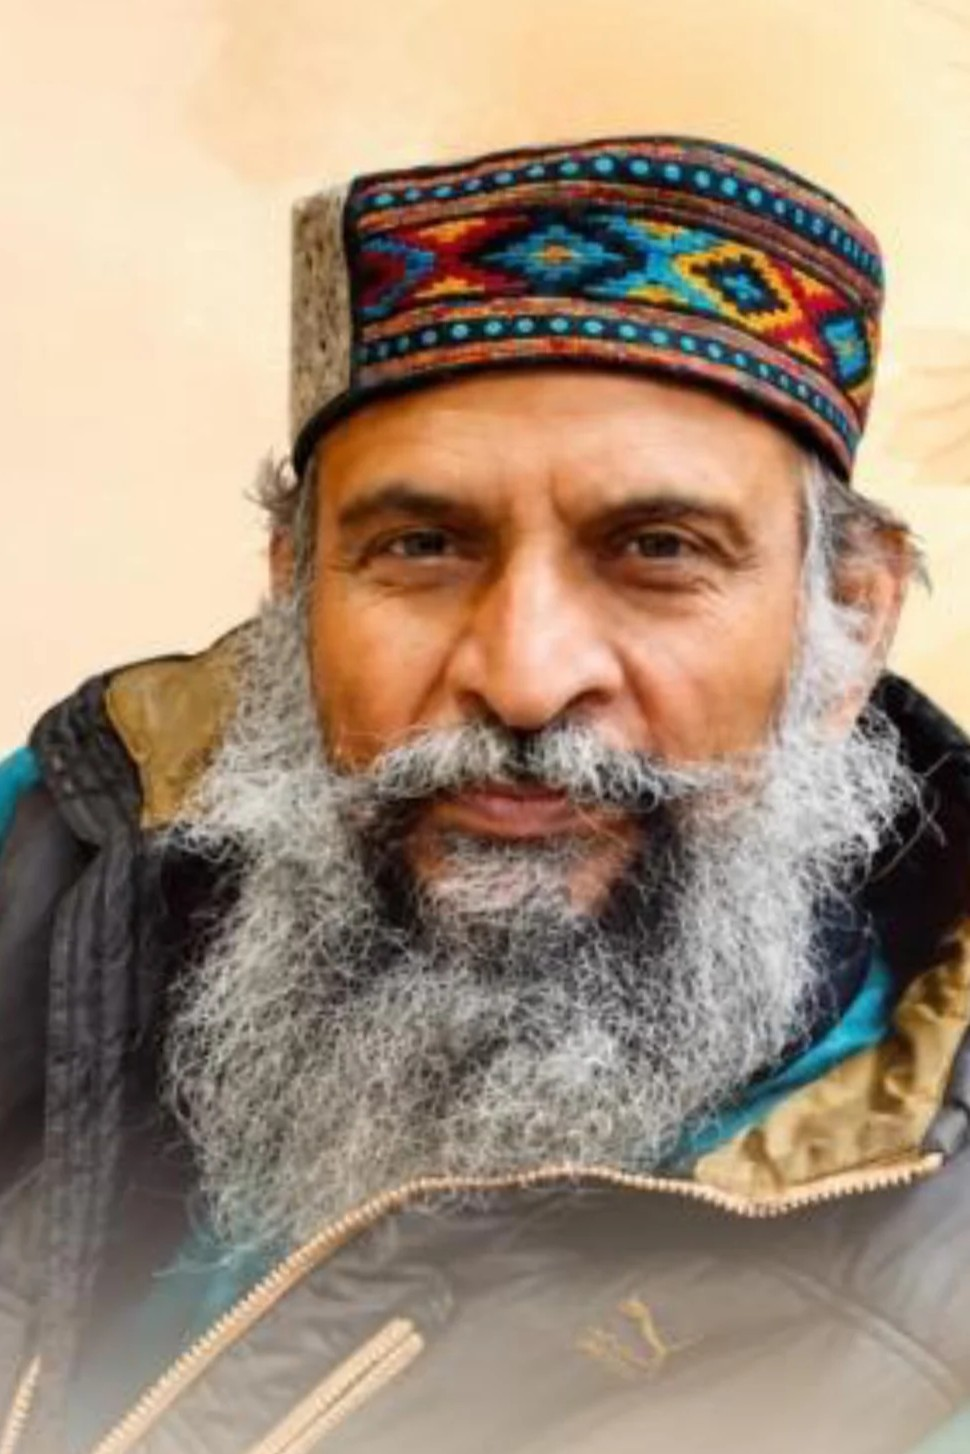
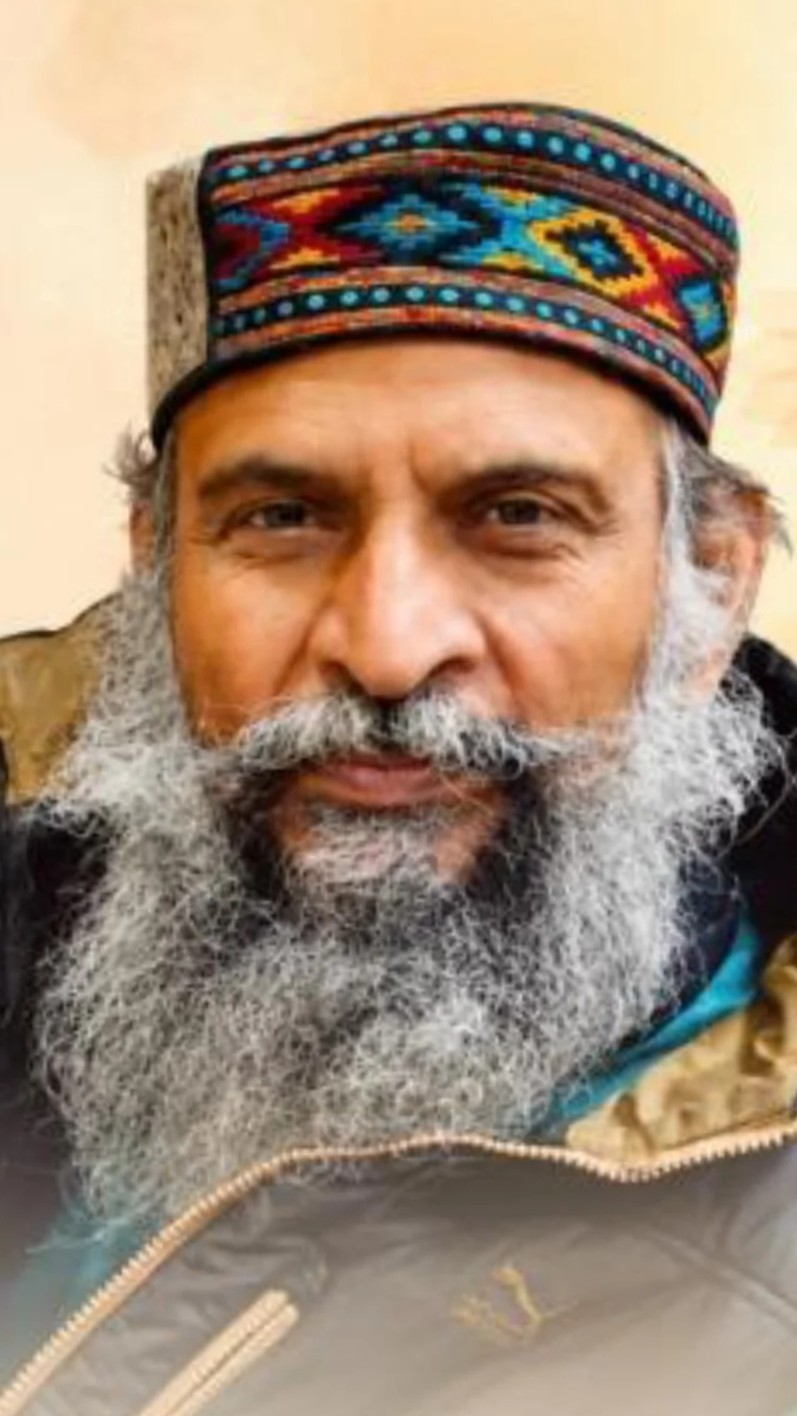
first commit

diff --git a/style.css b/style.css
@@ -1382,6 +1382,7 @@ nav.links a.active::after {
 }
 
 @keyframes gentle-float {
+
   0%,
   100% {
     transform: translateY(0) rotate(0deg);
@@ -1393,6 +1394,7 @@ nav.links a.active::after {
 }
 
 @keyframes gentle-float-subtle {
+
   0%,
   100% {
     transform: translateY(0) rotate(0deg);
@@ -1405,6 +1407,7 @@ nav.links a.active::after {
 
 /* Gentle float preserving translateY(-50%) positioning */
 @keyframes gentle-float-centered {
+
   0%,
   100% {
     transform: translateY(-50%) rotate(0deg);
@@ -1428,6 +1431,7 @@ nav.links a.active::after {
 }
 
 @media (prefers-reduced-motion: reduce) {
+
   .drift,
   .drift-subtle,
   .float-deco,
@@ -1459,7 +1463,7 @@ nav.links a.active::after {
   isolation: isolate;
 }
 
-.story-red > *:not(.float-deco) {
+.story-red>*:not(.float-deco) {
   position: relative;
   z-index: 2;
 }
@@ -1594,6 +1598,7 @@ nav.links a.active::after {
 
 /* Mobile: hide decorative SVG to prevent overlap */
 @media (max-width: 767.98px) {
+
   #work-preview .float-camera-1,
   .float-deco,
   .deco-pos-1,
@@ -1698,8 +1703,8 @@ nav.links a.active::after {
   box-sizing: border-box;
   scroll-snap-align: start;
   transition: transform 0.4s cubic-bezier(0.16, 0.84, 0.44, 1),
-              border-color 0.35s ease,
-              box-shadow 0.4s ease;
+    border-color 0.35s ease,
+    box-shadow 0.4s ease;
 }
 
 .preview-strip-card img {
@@ -2437,7 +2442,7 @@ nav.links a.active::after {
     grid-row: auto;
   }
 
- 
+
 }
 
 /* Archive */
@@ -2758,7 +2763,7 @@ footer a:hover {
 .footer-bottom-tagline {
   margin: 0;
   letter-spacing: 0.12em;
-  color: #C94B50;
+  color: #C5A059;
   font-weight: 500;
   text-transform: uppercase;
   font-size: 0.6875rem;
@@ -3814,7 +3819,10 @@ footer a:hover {
 }
 
 @media (max-width: 991px) {
-  .aperture-svg { width: 40px; height: 40px;}
+  .aperture-svg {
+    width: 40px;
+    height: 40px;
+  }
 }
 
 .filmstrip-divider {
@@ -3833,7 +3841,7 @@ footer a:hover {
 }
 
 .filmstrip-divider .filmstrip-base,
-.filmstrip-divider svg > rect {
+.filmstrip-divider svg>rect {
   fill: #323232;
   stroke: #00000073;
   stroke-width: 2 px;

diff --git a/index.html b/index.html
@@ -408,7 +408,7 @@
       </div>
       <div class="col-12 col-lg-5 story-red reveal delay-1 d-flex flex-column justify-content-center p-4 p-md-5">
         <!-- Position 1: Subtle decorative SVG in upper-right of red panel -->
-        <!-- <img class="float-deco deco-pos-1 drift-subtle" src="images/svg/Cheese_Filp.svg" alt="" width="76" height="60" aria-hidden="true"> -->
+        <!--  <img class="float-deco deco-pos-1 drift-subtle" src="images/svg/Cheese_Filp.svg" alt="" width="76" height="60" aria-hidden="true"> -->
         <div class="eyebrow">More Than Images</div>
         <h3 class="mt-3">Photography connects people.</h3>
         <p class="mt-3">It preserves memories, inspires change and brings the world a little closer.</p>
